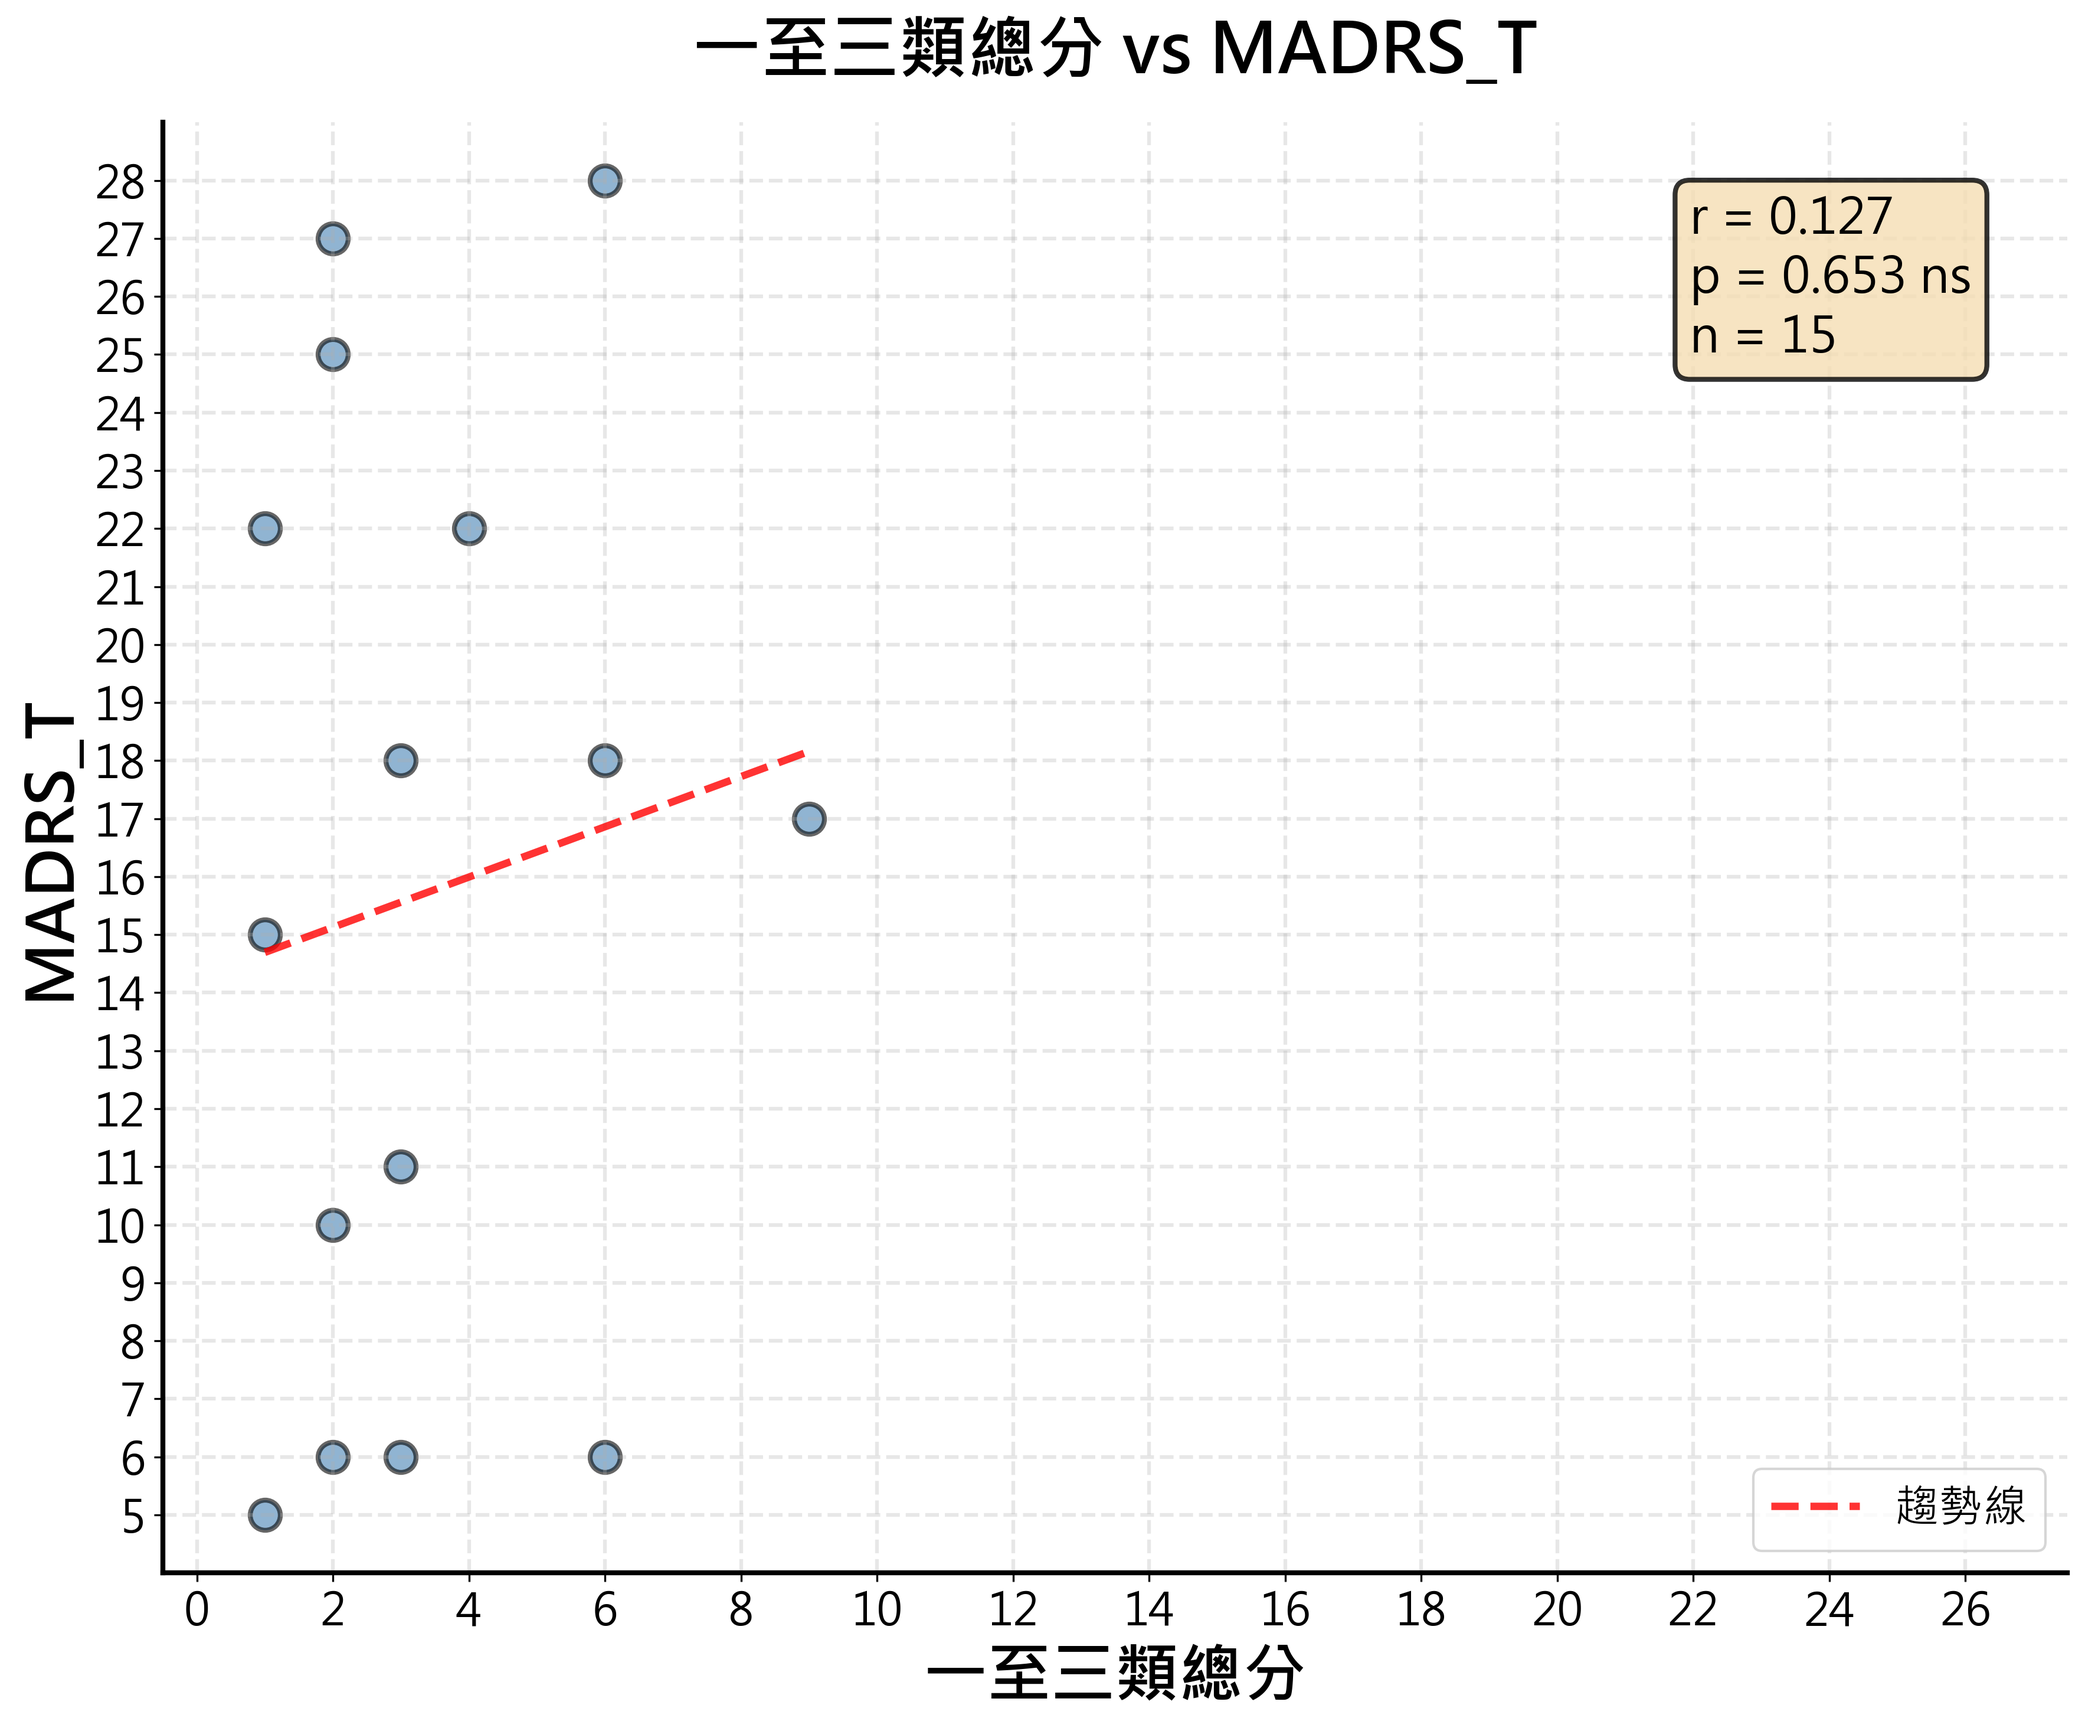
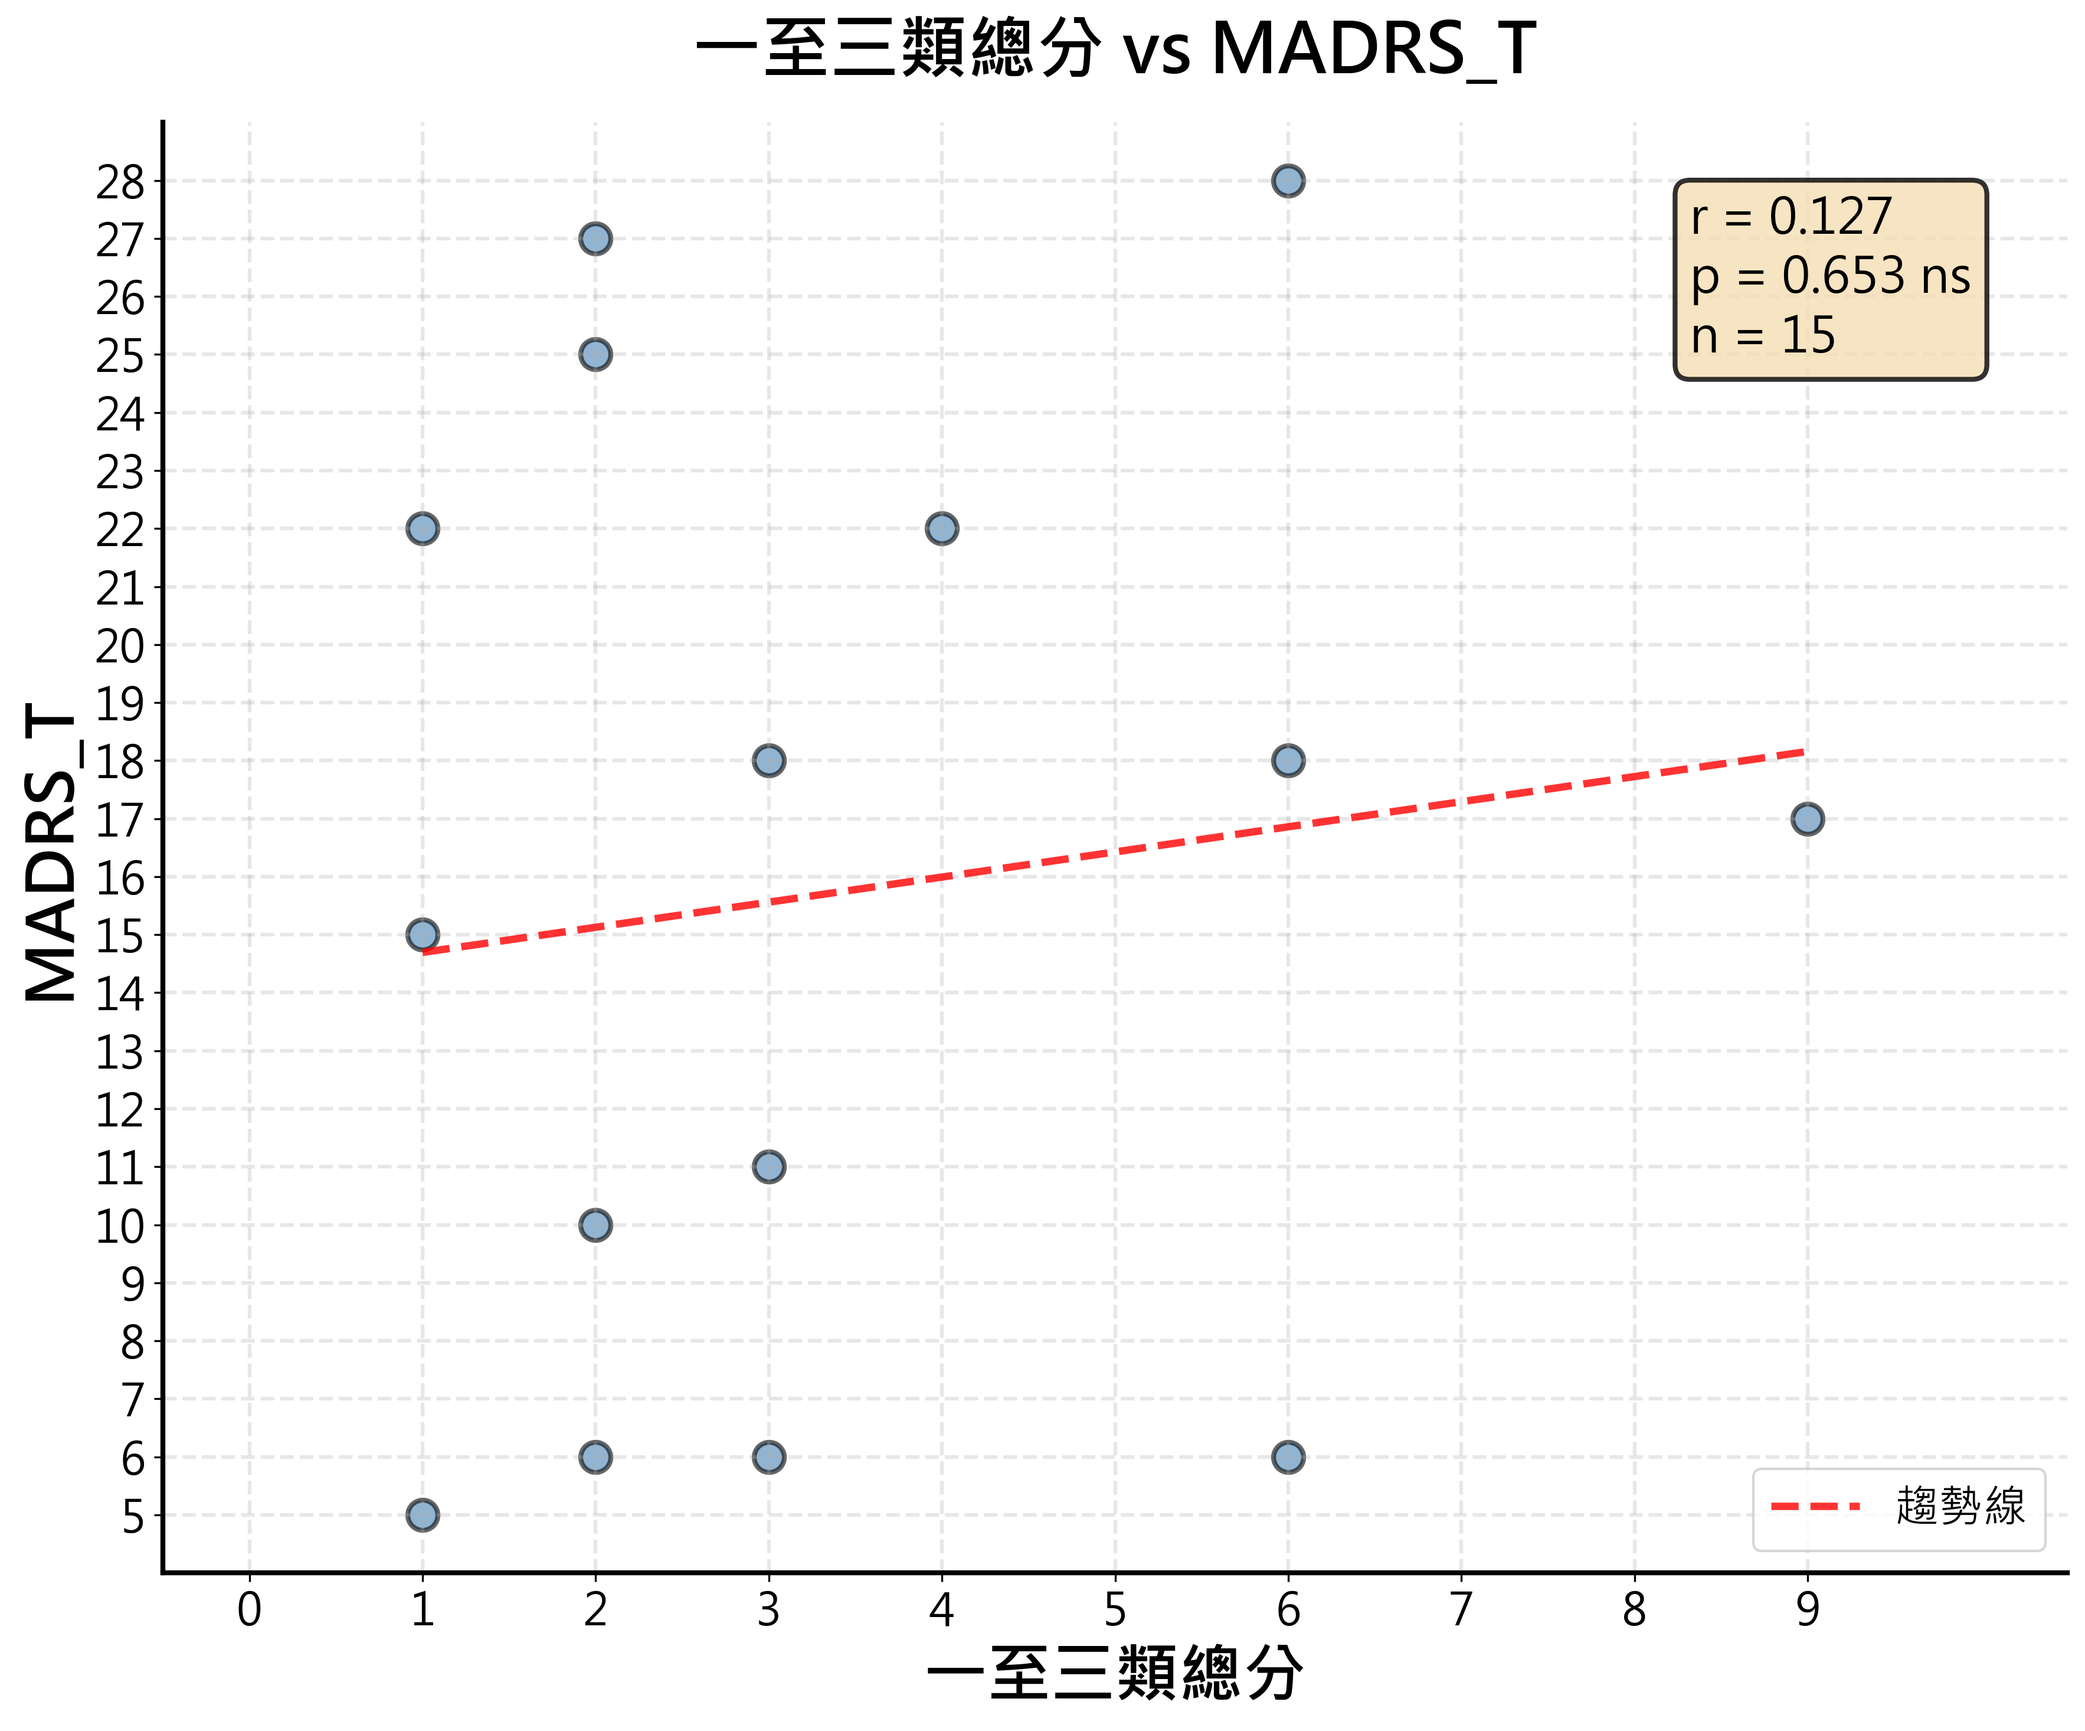
modified correlation plot of DAP score vs MADRS_T

diff --git a/feat_quant/pilot_DAP_corr.py b/feat_quant/pilot_DAP_corr.py
@@ -105,8 +105,8 @@ def create_scatter_plot(df, x_col, y_col, output_filename):
         ax.set_xlim(-0.5, 10.5)
         ax.set_xticks(range(0, 11))
     elif '一至三類總分' in x_col:
-        ax.set_xlim(-0.5, 27.5)
-        ax.set_xticks(range(0, 28, 2))
+        ax.set_xlim(-0.5, 10.5)
+        ax.set_xticks(range(0, 10, 1))
     
     # 設定 Y 軸刻度（整數）
     y_min = int(np.floor(y.min()))
